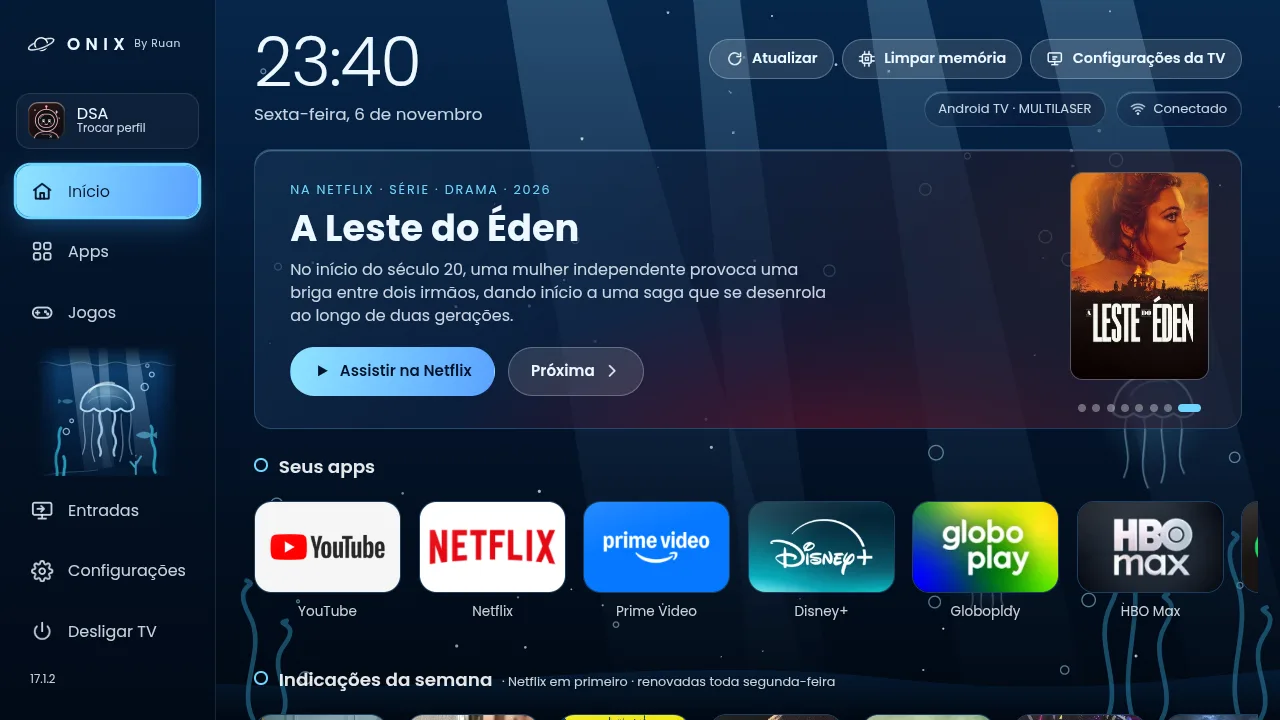
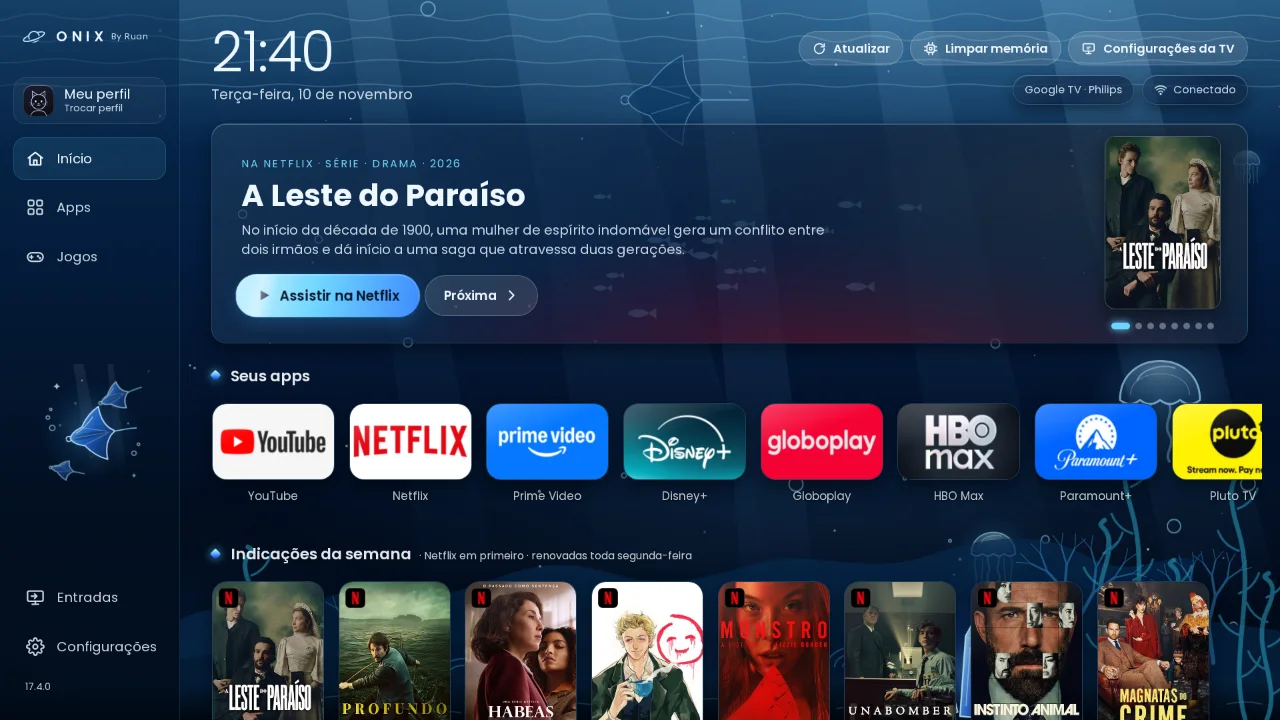
Onix 17.4.0 no site: temas Opala e Amethyst, agora são 11
- Página do Onix: versão 17.4.0, abas e prints do Onix Opala e do Onix Amethyst,
  prints novos da Safira, Esmeralda, Âmbar e Quartzo Rosa refeitos e legendas
- Prints feitos com os banners dos apps de uma captura real da TV
  (onix/docs/screenshots/apps.png) e as indicações reais embutidas no APK
- Card de novidades da página inicial: Onix 17.4.0

diff --git a/onix/index.html b/onix/index.html
@@ -24,7 +24,7 @@
       <span class="kick"><img src="../img/onix.svg" alt="">Launcher para TVs</span>
       <h1><b>Onix</b></h1>
       <p>A tela inicial da TV com visual de <b>vidro escuro</b>, rápida no controle remoto, com indicações da semana, notícias dos games e o <b>Cobalt GameHub</b>. Grátis e de código aberto.</p>
-      <div class="ver-row"><span class="chip ver" id="ver">Versão 17.1.2</span><a class="chip new" href="#temas">Novo: 4 temas, agora são 9 →</a></div>
+      <div class="ver-row"><span class="chip ver" id="ver">Versão 17.4.0</span><a class="chip new" href="#temas">Novo: Opala e Amethyst, agora são 11 temas →</a></div>
       <span class="clock" id="clock" aria-hidden="true"></span>
       <div class="acts hero-acts">
         <a class="btn primary" href="#devices">Baixar para TV</a>
@@ -48,14 +48,14 @@
   <ul class="facts">
     <li><b>Grátis</b><span>de código aberto, sem anúncios de terceiros</span></li>
     <li><b>3 sistemas</b><span>Google TV, Samsung e LG</span></li>
-    <li><b>9 temas</b><span>10 fontes e 8 relógios</span></li>
+    <li><b>11 temas</b><span>10 fontes e 8 relógios</span></li>
     <li><b>Sozinho</b><span>se atualiza pela própria TV</span></li>
   </ul>
 
   <section class="themes" id="temas">
-    <p class="eyebrow">Novo na 17.1.0</p>
-    <h3 class="t">9 temas, um Onix só</h3>
-    <p class="sub">Em <b>Configurações → Aparência → Tema</b>. Cada tema muda o vidro, as cores, o foco, os desenhos e a tela de descanso, e nada sai do lugar.</p>
+    <p class="eyebrow">Novo na 17.4.0</p>
+    <h3 class="t">11 temas, um Onix só</h3>
+    <p class="sub">Em <b>Configurações → Aparência → Tema</b>. Cada tema muda o vidro, as cores, o foco, os desenhos e a tela de descanso, que é diferente em cada um, e nada sai do lugar.</p>
     <div class="th-tabs" role="tablist" aria-label="Temas do Onix">
       <button role="tab" aria-selected="true" data-th="0" style="--c:#ffffff">Onix Escuro</button>
       <button role="tab" aria-selected="false" data-th="1" style="--c:#3de1ff">Onix Cobalt</button>
@@ -65,7 +65,9 @@
       <button role="tab" aria-selected="false" data-th="5" style="--c:#5fe89a">Onix Esmeralda</button>
       <button role="tab" aria-selected="false" data-th="6" style="--c:#ffb347">Onix Âmbar</button>
       <button role="tab" aria-selected="false" data-th="7" style="--c:#ffa8c8">Onix Quartzo Rosa</button>
-      <button role="tab" aria-selected="false" data-th="8" style="--c:#dfe3ea">Onix White</button>
+      <button role="tab" aria-selected="false" data-th="8" style="--c:#ff9a4d">Onix Opala</button>
+      <button role="tab" aria-selected="false" data-th="9" style="--c:#b49cff">Onix Amethyst</button>
+      <button role="tab" aria-selected="false" data-th="10" style="--c:#dfe3ea">Onix White</button>
     </div>
     <div class="th-view reveal">
       <div class="th-screens">
@@ -77,6 +79,8 @@
         <img class="" alt="Tema Onix Esmeralda" src="../img/onix-tema-esmeralda-1280.webp" srcset="../img/onix-tema-esmeralda-640.webp 640w, ../img/onix-tema-esmeralda-1280.webp 1280w" sizes="(max-width: 860px) 92vw, 1000px" width="1280" height="720" loading="lazy" decoding="async">
         <img class="" alt="Tema Onix Âmbar" src="../img/onix-tema-ambar-1280.webp" srcset="../img/onix-tema-ambar-640.webp 640w, ../img/onix-tema-ambar-1280.webp 1280w" sizes="(max-width: 860px) 92vw, 1000px" width="1280" height="720" loading="lazy" decoding="async">
         <img class="" alt="Tema Onix Quartzo Rosa" src="../img/onix-tema-quartzo-1280.webp" srcset="../img/onix-tema-quartzo-640.webp 640w, ../img/onix-tema-quartzo-1280.webp 1280w" sizes="(max-width: 860px) 92vw, 1000px" width="1280" height="720" loading="lazy" decoding="async">
+        <img class="" alt="Tema Onix Opala" src="../img/onix-tema-opala-1280.webp" srcset="../img/onix-tema-opala-640.webp 640w, ../img/onix-tema-opala-1280.webp 1280w" sizes="(max-width: 860px) 92vw, 1000px" width="1280" height="720" loading="lazy" decoding="async">
+        <img class="" alt="Tema Onix Amethyst" src="../img/onix-tema-amethyst-1280.webp" srcset="../img/onix-tema-amethyst-640.webp 640w, ../img/onix-tema-amethyst-1280.webp 1280w" sizes="(max-width: 860px) 92vw, 1000px" width="1280" height="720" loading="lazy" decoding="async">
         <img class="" alt="Tema Onix White" src="../img/onix-tema-white-1280.webp" srcset="../img/onix-tema-white-640.webp 640w, ../img/onix-tema-white-1280.webp 1280w" sizes="(max-width: 860px) 92vw, 1000px" width="1280" height="720" loading="lazy" decoding="async">
       </div>
       <p class="th-cap" aria-live="polite"></p>
@@ -242,10 +246,12 @@ const TH_CAP = [
   '<b>Onix Cobalt</b>: pixel art inspirada no Cobalt GameHub, com nave, estrelas e planetas de pixel.',
   '<b>Onix Aurora</b>: a aurora boreal se movendo sobre montanhas e pinheiros.',
   '<b>Onix Rubi Cinema</b>: uma sala de cinema, com cortina, lâmpadas e o feixe do projetor.',
-  '<b>Onix Safira</b>: o fundo do mar, com raios de luz, bolhas subindo e águas-vivas.',
-  '<b>Onix Esmeralda</b>: uma floresta à noite, com samambaias, vaga-lumes e gemas de esmeralda em pixel art.',
-  '<b>Onix Âmbar</b>: um pôr do sol retrô, com o sol listrado e a grade neon.',
-  '<b>Onix Quartzo Rosa</b>: um jardim japonês, com lua cheia, o monte ao fundo e pétalas de cerejeira caindo.',
+  '<b>Onix Safira</b>: o fundo do mar, com recife, cardume, raias-manta, águas-vivas e safiras brilhando no chão.',
+  '<b>Onix Esmeralda</b>: uma floresta à noite, com névoa entre os pinheiros, cogumelos que brilham, vaga-lumes e cristais de esmeralda.',
+  '<b>Onix Âmbar</b>: um pôr do sol retrô, com o sol listrado atrás das nuvens, palmeiras e a grade neon.',
+  '<b>Onix Quartzo Rosa</b>: um jardim japonês, com lua cheia, o monte com neve, pagode, torii e pétalas de cerejeira caindo.',
+  '<b>Onix Opala</b>: a noite quentinha do Opala, com estrelinhas laranja, constelação, lua crescente e coraçõezinhos. <i>Novo</i>',
+  '<b>Onix Amethyst</b>: o palco do Amethyst, com o buraco de minhoca, canhões de luz, notas musicais e o equalizador. <i>Novo</i>',
   '<b>Onix White</b>: claro, sem cansar a vista.',
 ];
 const thTabs = [...document.querySelectorAll('.th-tabs button')], thImgs = [...document.querySelectorAll('.th-screens img')], thCap = document.querySelector('.th-cap');

diff --git a/index.html b/index.html
@@ -64,9 +64,10 @@
                 <div class="update-item-title">Onix</div>
                 <small style="color: var(--mute);">Launcher para TVs</small>
               </div>
-              <span class="update-item-tag" style="color: #ffffff; border-color: rgba(255,255,255,.35); background: rgba(255,255,255,.08);">v17.3.0</span>
+              <span class="update-item-tag" style="color: #ffffff; border-color: rgba(255,255,255,.35); background: rgba(255,255,255,.08);">v17.4.0</span>
             </div>
             <ul class="update-item-list">
+              <li style="color: #ffffff;"><span style="color: var(--dim);"><b>Temas Opala e Amethyst (17.4.0)</b>: dois temas novos inspirados nas gemas, agora são 11. Safira, Esmeralda, Âmbar e Quartzo Rosa foram refeitos, e cada tema ganhou a própria tela de descanso.</span></li>
               <li style="color: #ffffff;"><span style="color: var(--dim);"><b>Prime Video e Paramount+ (17.3.0)</b>: as indicações da semana agora também trazem os títulos populares do Prime Video e do Paramount+, com o ícone de cada serviço, e Assistir abre o título no app.</span></li>
               <li style="color: #ffffff;"><span style="color: var(--dim);"><b>Novidades do Project Gems (17.2.0)</b>: o primeiro banner do destaque mostra as novidades das gemas, começando pelo Emerald, com QR code para o site (dá para desligar nas Configurações). A Trajetória também ganhou o Emerald.</span></li>
               <li style="color: #ffffff;"><span style="color: var(--dim);"><b>Aba Jogos sem demora (17.1.3)</b>: a página de Jogos abre na hora, e no tema Cobalt os botões do GameHub voltam a mostrar a borda de foco.</span></li>
